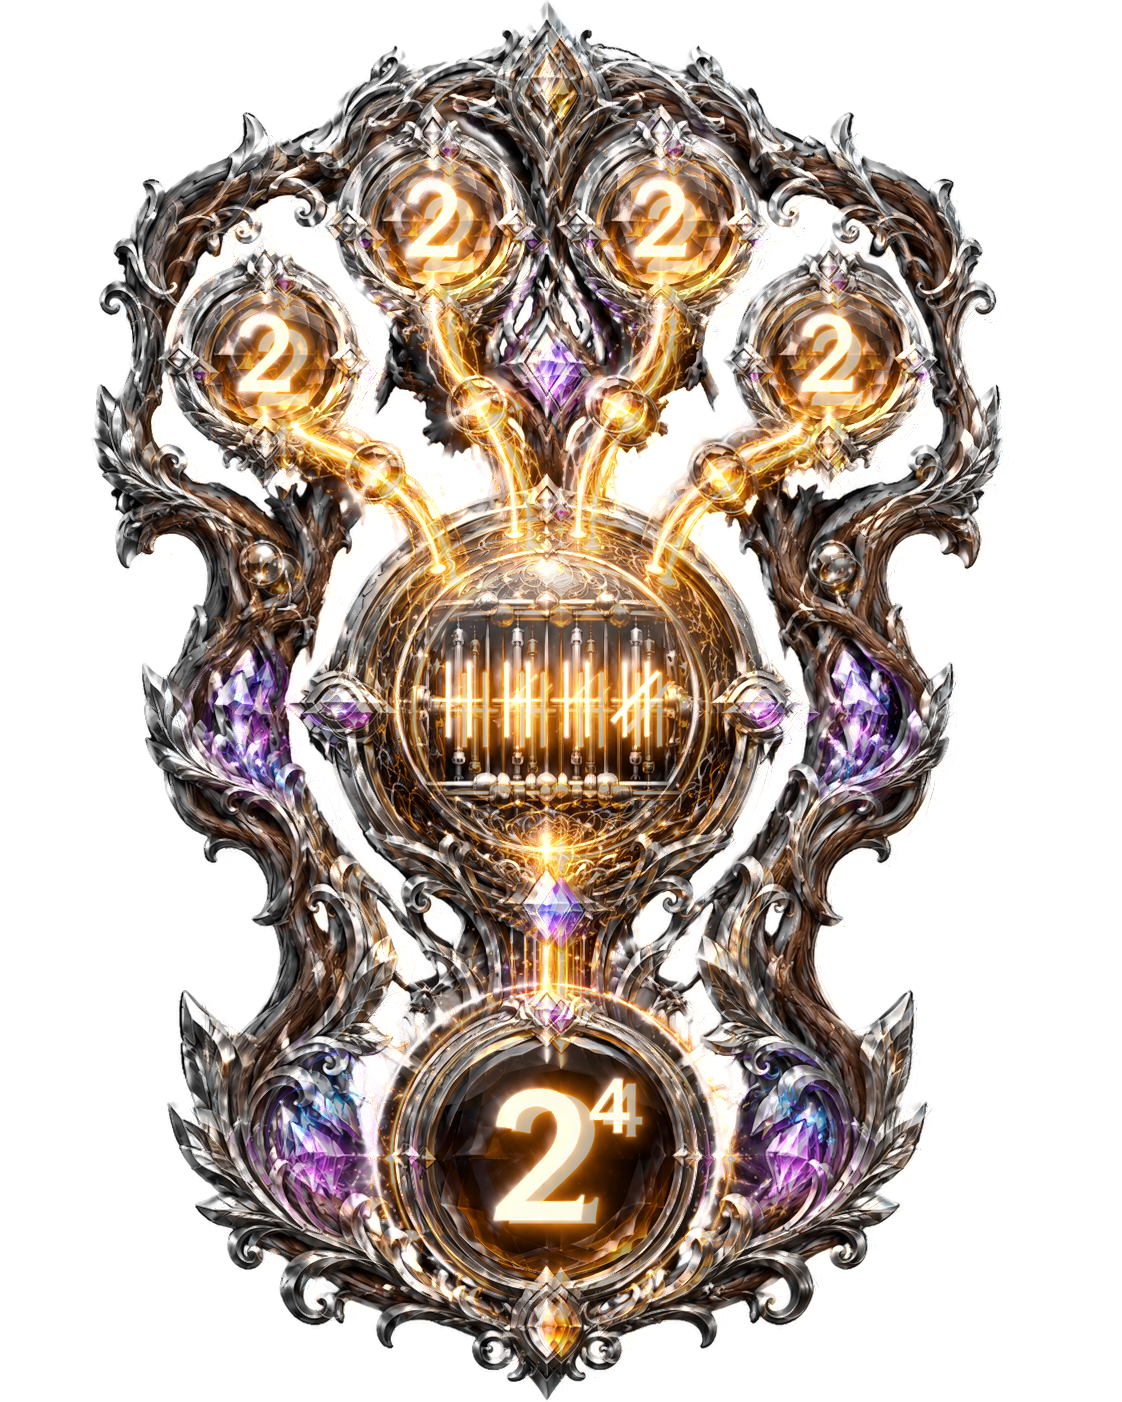
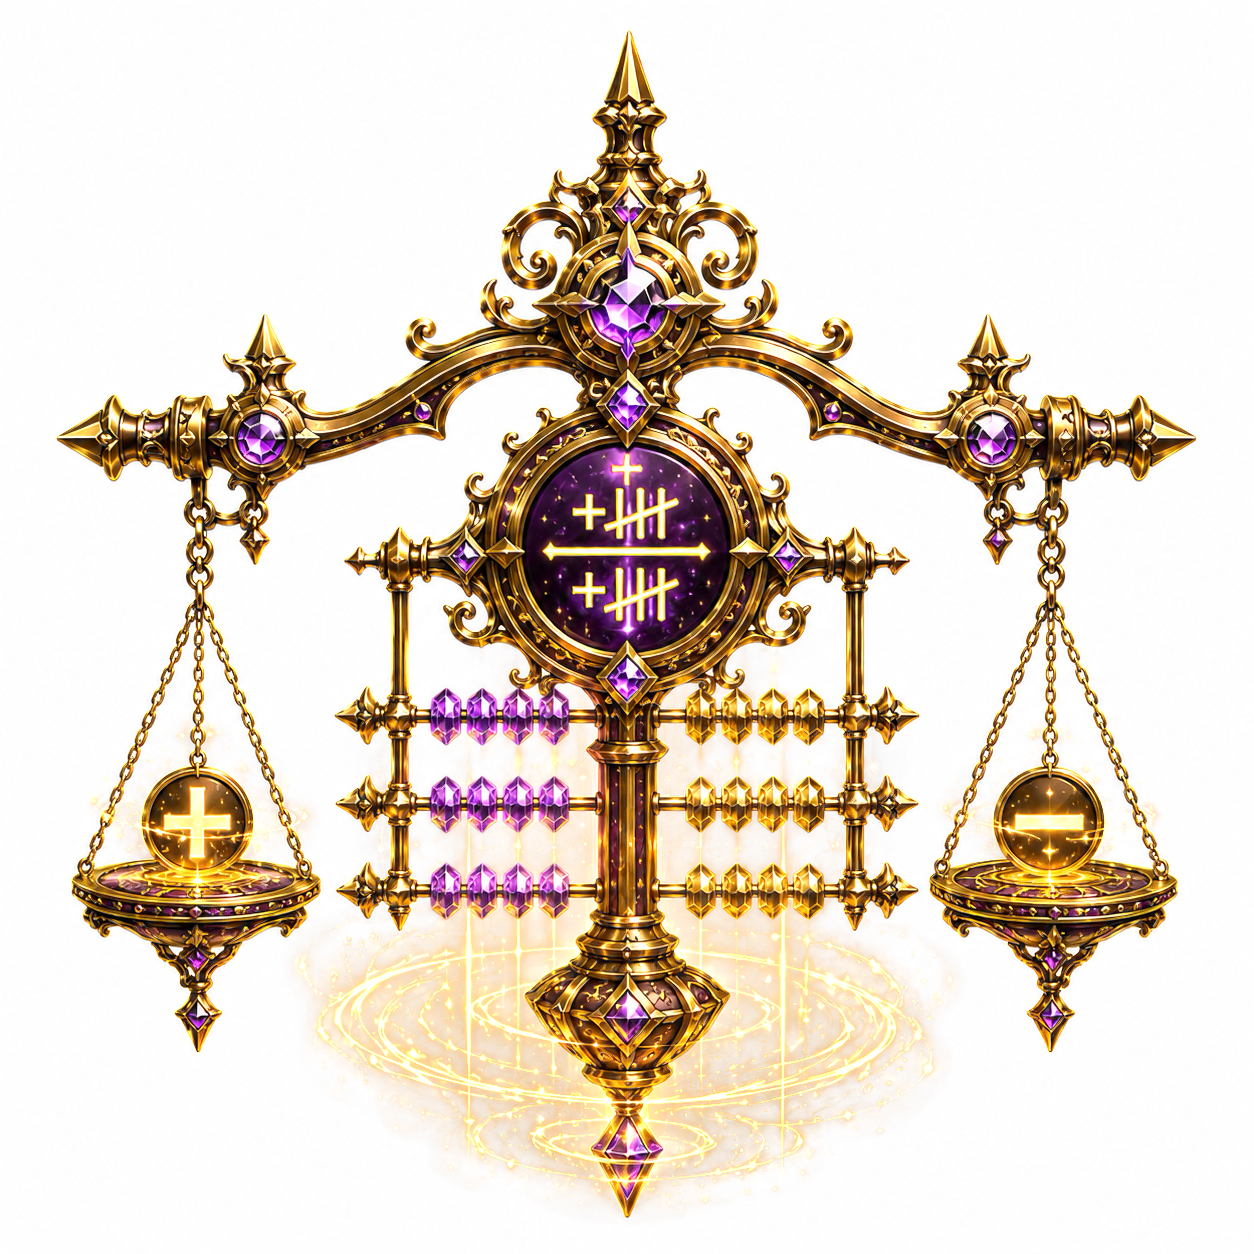
h
j

diff --git a/assets/css/mathridge-note.css b/assets/css/mathridge-note.css
@@ -1660,6 +1660,77 @@ body[data-note-id] .footer-rule {
   box-shadow: 0 16px 38px rgba(0,0,0,.24);
 }
 
+body[data-note-id] .mini-skit-section {
+  text-align: center;
+  border-color: rgba(242, 184, 75, 0.34);
+  background:
+    radial-gradient(circle at 50% 0%, rgba(242, 184, 75, 0.16), transparent 36%),
+    rgba(255, 247, 232, 0.08);
+}
+
+body[data-note-id] .mini-skit-section p:not(.eyebrow) {
+  max-width: 720px;
+  margin-inline: auto;
+}
+
+body[data-note-id] .mini-skit-open {
+  margin-top: 12px;
+}
+
+body[data-note-id] .mini-skit-dialog {
+  width: min(1180px, calc(100vw - 28px));
+  max-height: calc(100vh - 28px);
+  padding: 0;
+  border: 1px solid rgba(242, 184, 75, 0.56);
+  border-radius: 22px;
+  background: rgba(10, 20, 34, 0.96);
+  color: #fff7e8;
+  box-shadow: 0 30px 90px rgba(0, 0, 0, 0.58);
+}
+
+body[data-note-id] .mini-skit-dialog::backdrop {
+  background: rgba(4, 10, 18, 0.78);
+  backdrop-filter: blur(8px);
+}
+
+body[data-note-id] .mini-skit-dialog-card {
+  display: grid;
+  gap: 12px;
+  padding: 14px;
+}
+
+body[data-note-id] .mini-skit-dialog-top {
+  display: flex;
+  align-items: center;
+  justify-content: space-between;
+  gap: 12px;
+  padding: 2px 2px 0;
+}
+
+body[data-note-id] .mini-skit-dialog-top strong {
+  color: #ffe3a8;
+  font-size: 1.05rem;
+  font-weight: 950;
+}
+
+body[data-note-id] .mini-skit-close {
+  min-height: 38px;
+}
+
+body[data-note-id] .mini-skit-dialog img {
+  display: block;
+  width: 100%;
+  max-height: min(72vh, 820px);
+  object-fit: contain;
+  border-radius: 14px;
+  background: #fff7e8;
+}
+
+body[data-note-id] .mini-skit-done {
+  justify-self: center;
+  min-width: min(100%, 220px);
+}
+
 @media (max-width: 820px) {
   body[data-note-id] {
     background-attachment: scroll;
@@ -1672,6 +1743,25 @@ body[data-note-id] .footer-rule {
   body[data-note-id] .unlock-dock {
     backdrop-filter: blur(9px);
     -webkit-backdrop-filter: blur(9px);
+  }
+
+  body[data-note-id] .mini-skit-dialog {
+    width: min(100vw - 14px, 760px);
+    max-height: calc(100vh - 14px);
+    border-radius: 18px;
+  }
+
+  body[data-note-id] .mini-skit-dialog-card {
+    padding: 10px;
+  }
+
+  body[data-note-id] .mini-skit-dialog-top {
+    align-items: flex-start;
+  }
+
+  body[data-note-id] .mini-skit-dialog img {
+    max-height: 70vh;
+    border-radius: 12px;
   }
 }
 

diff --git a/note6.html b/note6.html
@@ -8,7 +8,7 @@
 <link rel="preconnect" href="https://fonts.gstatic.com" crossorigin>
 <link href="https://fonts.googleapis.com/css2?family=Inter:wght@400;600;700;800;900&family=Playfair+Display:wght@600;700;800&display=swap" rel="stylesheet">
   <link rel="stylesheet" href="assets/css/math-ridge-shell.css?v=[phone redacted]-mobile-scrollbar">
-<link rel="stylesheet" href="assets/css/mathridge-note.css?v=20260608-relic-manual-footer">
+<link rel="stylesheet" href="assets/css/mathridge-note.css?v=20260609-mini-skit">
 <link rel="stylesheet" href="assets/css/note6.css?v=20260531-factor-tree-align">
 </head>
 <body class="note-page note-6" data-note-id="2_2">
@@ -150,6 +150,13 @@
     <div class="note6-pause-card"><strong>Memory line:</strong> split &rarr; circle &rarr; list &rarr; match.</div>
   </section>
 
+  <section class="section note6-section mini-skit-section" aria-label="Primewood Seed mini-skit">
+    <p class="eyebrow">Mini-Skit | Primewood Seed</p>
+    <h2>Before the Practice Gate</h2>
+    <p>Mira and Elder Shellwick pause for a quick reminder: a factor tree can grow sideways, but every branch still stops at prime pieces.</p>
+    <button class="gold-btn mini-skit-open" type="button" onclick="document.getElementById('primewoodSeedSkitDialog').showModal()">View Mini-Skit</button>
+  </section>
+
   <section class="section practice note6-practice" id="practice">
     <h2><span class="section-kicker">08</span> Unlock Practice</h2>
     <p>Break each number into prime pieces. Use the small boxes from left to right. The order does not matter, but every piece must be prime.</p>
@@ -169,6 +176,17 @@
   <section class="footer-rule" aria-label="Math Ridge quote">"Big numbers become honest when you can name their prime pieces." - Math Ridge</section>
   <p class="footer-note">Math Ridge Manual 2-2 | Primewood Seed Manual</p>
 </main>
+
+<dialog class="mini-skit-dialog" id="primewoodSeedSkitDialog" aria-label="Primewood Seed mini-skit" onclick="if (event.target === this) this.close()">
+  <div class="mini-skit-dialog-card">
+    <div class="mini-skit-dialog-top">
+      <strong>Primewood Seed</strong>
+      <button class="pill-btn mini-skit-close" type="button" onclick="this.closest('dialog').close()">Close</button>
+    </div>
+    <img src="assets/images/mini-skit/mini-skit-stage-2-2.png" alt="Mira learns that factor trees split numbers into prime pieces before those pieces help reduce fractions." loading="lazy" decoding="async" />
+    <button class="gold-btn mini-skit-done" type="button" onclick="this.closest('dialog').close()">Done Reading</button>
+  </div>
+</dialog>
 
 <div class="modal-backdrop" id="unlockModal" role="dialog" aria-modal="true" aria-labelledby="modalTitle">
   <div class="modal-card">

diff --git a/note7.html b/note7.html
@@ -8,7 +8,7 @@
 <link rel="preconnect" href="https://fonts.gstatic.com" crossorigin>
 <link href="https://fonts.googleapis.com/css2?family=Inter:wght@400;600;700;800;900&family=Playfair+Display:wght@600;700;800&display=swap" rel="stylesheet">
   <link rel="stylesheet" href="assets/css/math-ridge-shell.css?v=[phone redacted]-mobile-scrollbar">
-<link rel="stylesheet" href="assets/css/mathridge-note.css?v=20260608-relic-manual-footer">
+<link rel="stylesheet" href="assets/css/mathridge-note.css?v=20260609-mini-skit">
 <link rel="stylesheet" href="assets/css/note7.css">
 </head>
 <body class="note-page note-7" data-note-id="2_3">
@@ -134,6 +134,13 @@
     <div class="read-box">Short version: notice &rarr; flip if needed &rarr; stack &rarr; factor &rarr; cross &rarr; finish.</div>
   </section>
 
+  <section class="section note7-section mini-skit-section" aria-label="Fraction Loom mini-skit">
+    <p class="eyebrow">Mini-Skit | Fraction Loom</p>
+    <h2>Before the Practice Gate</h2>
+    <p>Mira and Elder Shellwick pause for a quick reminder: only the second fraction flips, then the shelves can stack, factor, cross, and finish.</p>
+    <button class="gold-btn mini-skit-open" type="button" onclick="document.getElementById('fractionLoomSkitDialog').showModal()">View Mini-Skit</button>
+  </section>
+
   <section class="section practice note7-practice" id="practice">
     <h2><span class="section-kicker">08</span> Unlock Practice</h2>
     <p>Complete four division checks. Use the two-box fraction notepad. The answer must be the simplest fraction, so reduce before you press check.</p>
@@ -153,6 +160,17 @@
   <section class="footer-rule" aria-label="Math Ridge quote">"Factor first; the clean answer is already hiding in the matches." - Math Ridge</section>
   <p class="footer-note">Math Ridge Manual 2-3 | Fraction Loom Manual</p>
 </main>
+
+<dialog class="mini-skit-dialog" id="fractionLoomSkitDialog" aria-label="Fraction Loom mini-skit" onclick="if (event.target === this) this.close()">
+  <div class="mini-skit-dialog-card">
+    <div class="mini-skit-dialog-top">
+      <strong>Fraction Loom</strong>
+      <button class="pill-btn mini-skit-close" type="button" onclick="this.closest('dialog').close()">Close</button>
+    </div>
+    <img src="assets/images/mini-skit/mini-skit-stage-2-3.png" alt="Mira learns that fraction division flips only the second fraction before stacking, factoring, crossing matches, and finishing." loading="lazy" decoding="async" />
+    <button class="gold-btn mini-skit-done" type="button" onclick="this.closest('dialog').close()">Done Reading</button>
+  </div>
+</dialog>
 
 <div class="modal-backdrop" id="unlockModal" role="dialog" aria-modal="true" aria-labelledby="modalTitle">
   <div class="modal-card">

diff --git a/story-chapter-2.html b/story-chapter-2.html
@@ -33,9 +33,9 @@
   <link rel="preload" as="image" type="image/png" href="assets/images/Shellwick-sprite/Elder%20teaching.png" />
   <link rel="preload" as="image" type="image/png" href="assets/images/Shellwick-sprite/Elder%20amused%20%20gentle%20no.png" />
   <link rel="preload" as="image" href="assets/images/relic/Shelf_Scale_Relic_True_Alpha.png" />
-  <link rel="preload" as="image" href="assets/images/relic/Primewood_Seed_Relic_True_Alpha.png" />
-  <link rel="preload" as="image" href="assets/images/relic/Fraction_Loom_Relic_True_Alpha.png" />
-  <link rel="preload" as="image" href="assets/images/relic/Power_Tally_Relic_True_Alpha.png" />
+  <link rel="preload" as="image" href="assets/images/relic/primewood_seed_relic_true_alpha.png" />
+  <link rel="preload" as="image" href="assets/images/relic/fraction_loom_relic_true_alpha.png" />
+  <link rel="preload" as="image" href="assets/images/relic/power_tally_relic_true_alpha.png" />
   <link rel="stylesheet" href="assets/css/story-stage-1-1.css?v=20260606-satchel-higher" />
   <link rel="stylesheet" href="assets/css/story-root-gate.css?v=20260601-chapter2-opening" />
 </head>
@@ -76,17 +76,17 @@
       </div>
       <div class="story-relic relic-sign" data-relic="sign">
         <span class="relic-light" aria-hidden="true"></span>
-        <img src="assets/images/relic/Primewood_Seed_Relic_True_Alpha.png" alt="" draggable="false" decoding="async" loading="eager" />
+        <img src="assets/images/relic/primewood_seed_relic_true_alpha.png" alt="" draggable="false" decoding="async" loading="eager" />
         <span>The Primewood Seed</span>
       </div>
       <div class="story-relic relic-parity" data-relic="parity">
         <span class="relic-light" aria-hidden="true"></span>
-        <img src="assets/images/relic/Fraction_Loom_Relic_True_Alpha.png" alt="" draggable="false" decoding="async" loading="eager" />
+        <img src="assets/images/relic/fraction_loom_relic_true_alpha.png" alt="" draggable="false" decoding="async" loading="eager" />
         <span>The Fraction Loom</span>
       </div>
       <div class="story-relic relic-factor" data-relic="factor">
         <span class="relic-light" aria-hidden="true"></span>
-        <img src="assets/images/relic/Power_Tally_Relic_True_Alpha.png" alt="" draggable="false" decoding="async" loading="eager" />
+        <img src="assets/images/relic/power_tally_relic_true_alpha.png" alt="" draggable="false" decoding="async" loading="eager" />
         <span>The Power Tally</span>
       </div>
     </div>

diff --git a/assets/js/index.js b/assets/js/index.js
@@ -423,9 +423,9 @@ function stageRelicImage(id) {
     "1_4": "assets/images/relic/factor_forge_alpha.png",
     "2_1a": "assets/images/relic/shelf_scale_inactive.png",
     "2_1": "assets/images/relic/Shelf_Scale_Relic_True_Alpha.png",
-    "2_2": "assets/images/relic/Primewood_Seed_Relic_True_Alpha.png",
-    "2_3": "assets/images/relic/Fraction_Loom_Relic_True_Alpha.png",
-    "2_4": "assets/images/relic/Power_Tally_Relic_True_Alpha.png"
+    "2_2": "assets/images/relic/primewood_seed_relic_true_alpha.png",
+    "2_3": "assets/images/relic/fraction_loom_relic_true_alpha.png",
+    "2_4": "assets/images/relic/power_tally_relic_true_alpha.png"
   };
   return relicImages[id] || "";
 }

diff --git a/index.html b/index.html
@@ -297,6 +297,6 @@
   </main>
 
   <script src="assets/js/math-ridge-shell.js?v=20260604-confirm-nav-delay"></script>
-  <script src="assets/js/index.js?v=20260608-cabin-banner-image-fit"></script>
+<script src="assets/js/index.js?v=20260609-relic-filenames"></script>
 </body>
 </html>